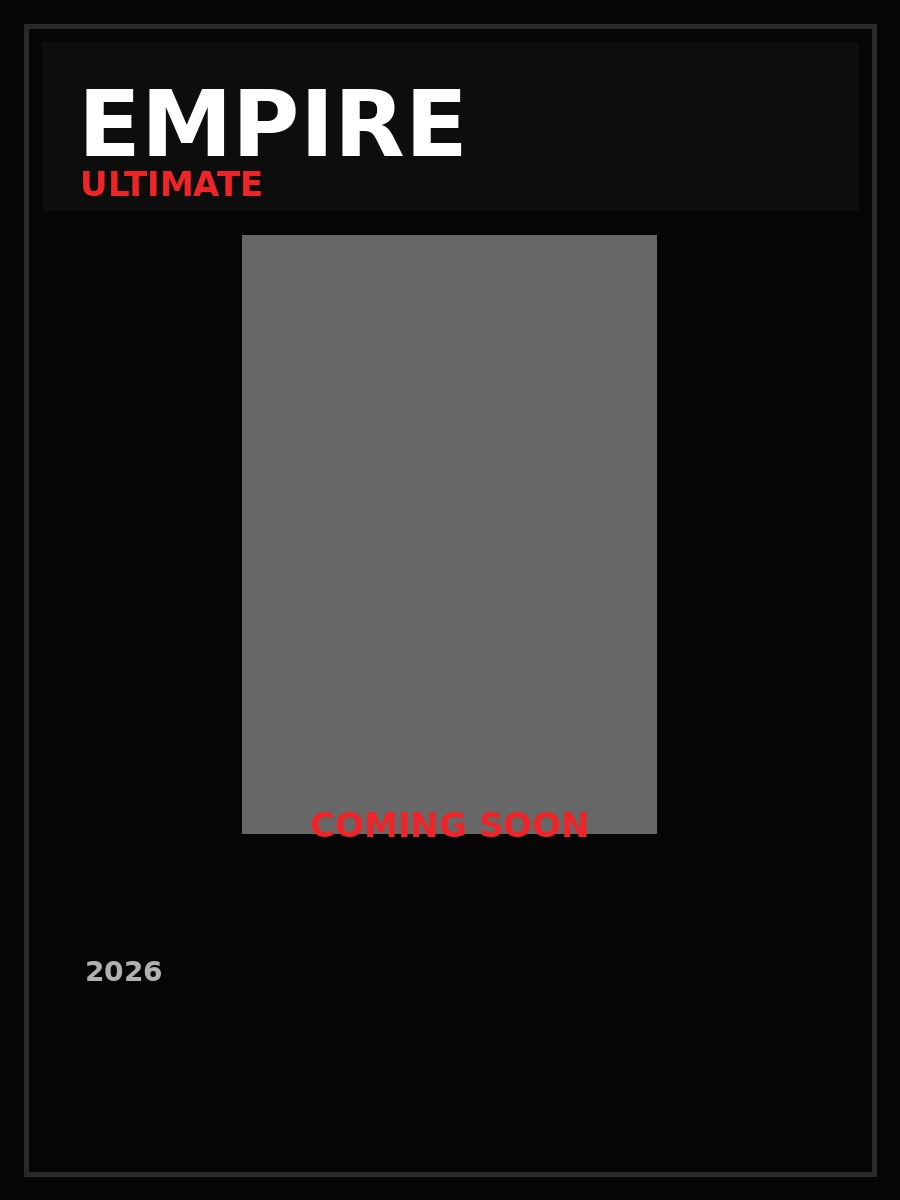
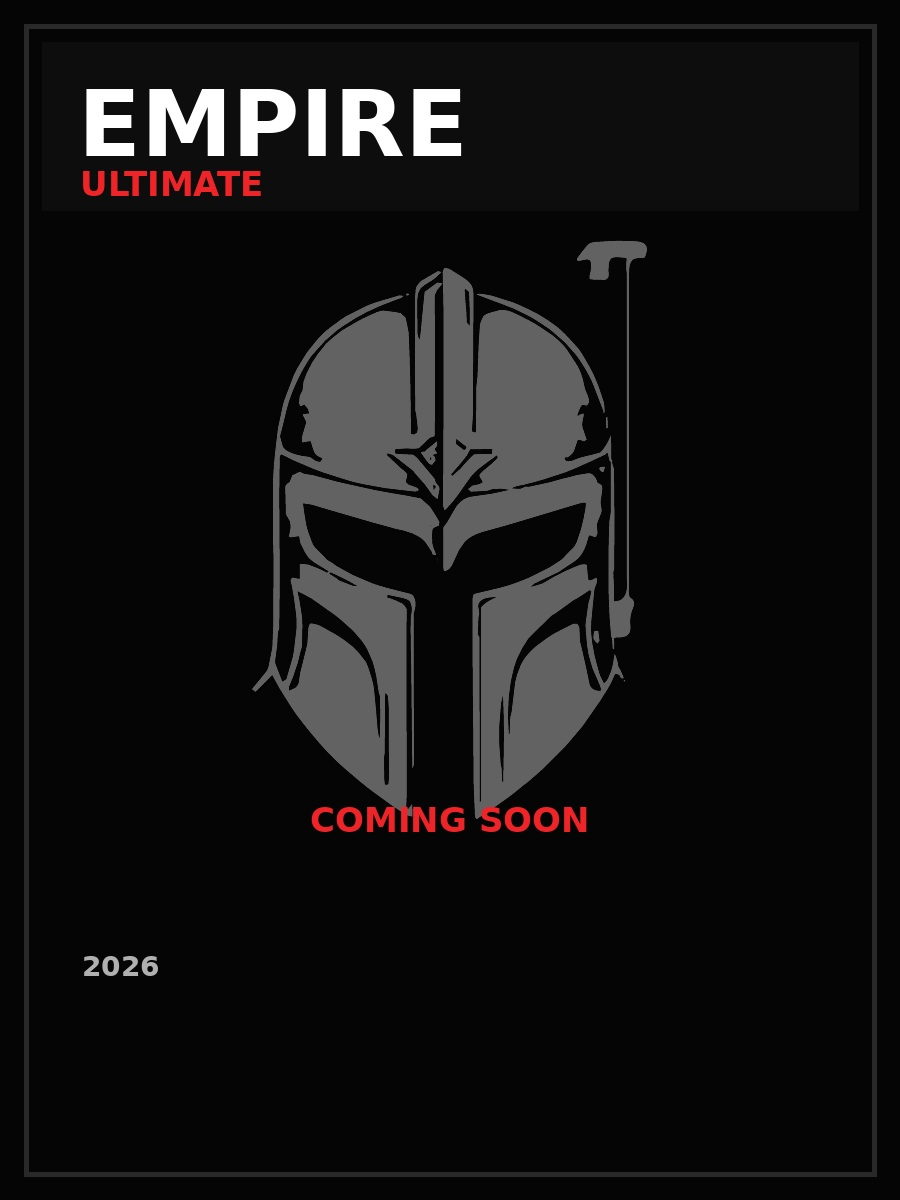
Add files via upload

Changed region(s): [[0.2489, 0.185, 0.7467, 0.7092], [0.0933, 0.7708, 0.1867, 0.8325]]

diff --git a/styles.css b/styles.css
@@ -1712,3 +1712,50 @@ letter-spacing:.08em;
     font-size: clamp(12px, 4.1vw, 18px);
   }
 }
+
+
+/* v2.8 corrected placeholder artwork and athletic nameplate */
+.placeholder-player-name {
+  left: 3.8%;
+  right: 3.8%;
+  bottom: 4.3%;
+  min-height: 88px;
+  display: flex;
+  align-items: center;
+  justify-content: center;
+  padding: 13px 8px 10px;
+  border: 7px solid #fff;
+  background: #050505;
+  overflow: hidden;
+  font-family: "Roboto Slab", "Rockwell Extra Bold", Rockwell, Georgia, serif;
+  font-size: clamp(18px, 2.25vw, 32px);
+  font-weight: 900;
+  letter-spacing: -.045em;
+  line-height: .92;
+  text-shadow: 0 1px 0 #000;
+  box-shadow: 0 0 0 4px #050505;
+  transform: none;
+}
+
+.placeholder-player-name::first-line {
+  font-stretch: condensed;
+}
+
+@supports (font-stretch: condensed) {
+  .placeholder-player-name {
+    font-stretch: condensed;
+  }
+}
+
+@media (max-width: 650px) {
+  .placeholder-player-name {
+    left: 3.5%;
+    right: 3.5%;
+    bottom: 4.1%;
+    min-height: 54px;
+    padding: 8px 4px 6px;
+    border-width: 4px;
+    font-size: clamp(12px, 4.2vw, 19px);
+    box-shadow: 0 0 0 2px #050505;
+  }
+}

diff --git a/README.md b/README.md
@@ -1,11 +1,10 @@
-# Empire Ultimate Website v2.7 — Placeholder Card Match
+# Empire Ultimate Website v2.8 — Placeholder Repair
 
 Changes:
-- Changed the placeholder nameplate to a heavier serif/slab-style font stack.
-- Increased the white nameplate border thickness.
-- Raised and resized the nameplate to better match completed player cards.
-- Enlarged and repositioned the helmet artwork.
-- Removed the redundant “Player Card” line.
-- Moved “Coming Soon” and 2026 into a cleaner, more intentional layout.
+- Fixed the broken helmet artwork by preserving the transparent alpha channel.
+- Enlarged and centred the helmet to better match the completed player cards.
+- Updated the player-name font stack to a narrower athletic slab-serif treatment.
+- Increased nameplate height and border thickness.
+- Preserved the raised nameplate, Coming Soon text, and 2026 placement.
 
 Upload all contents over the current GitHub repository files and commit.
